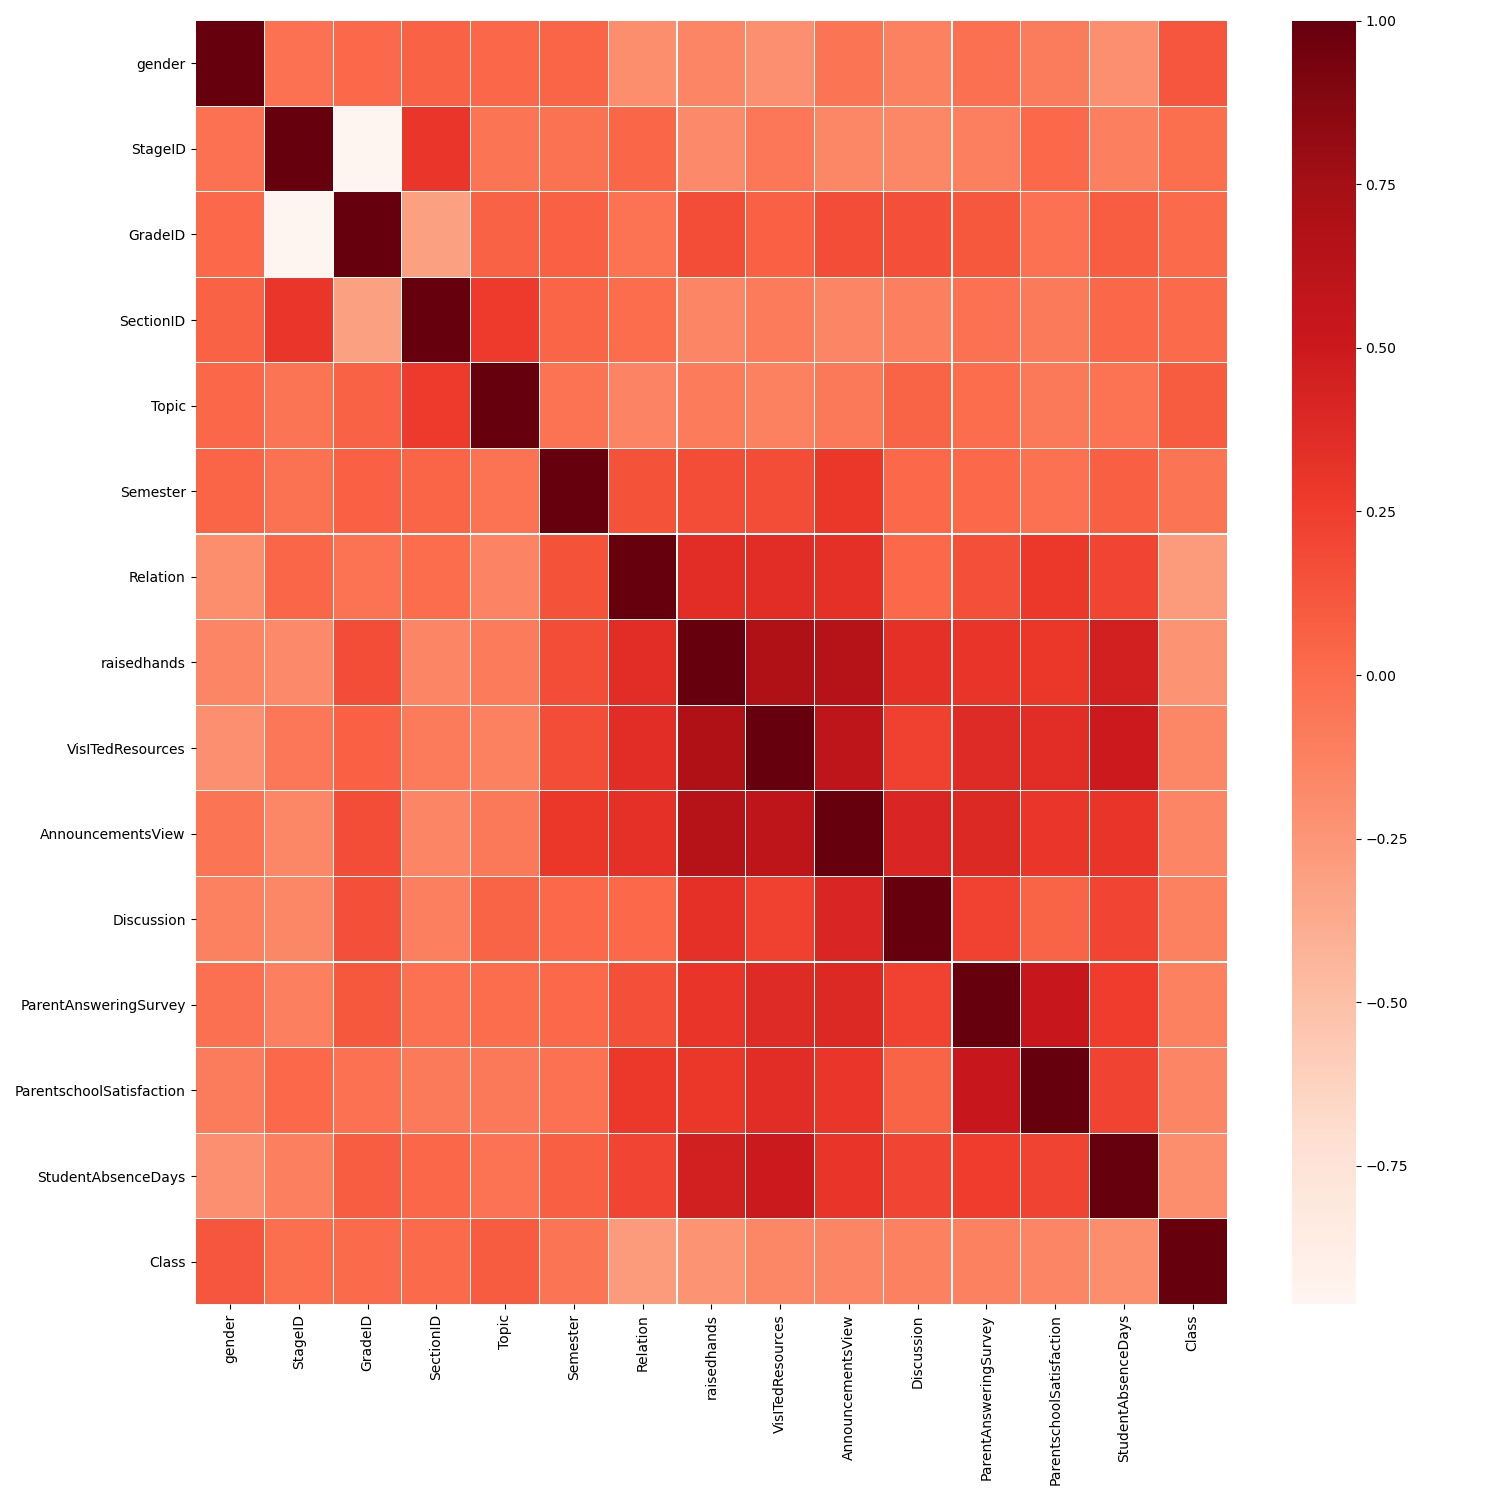
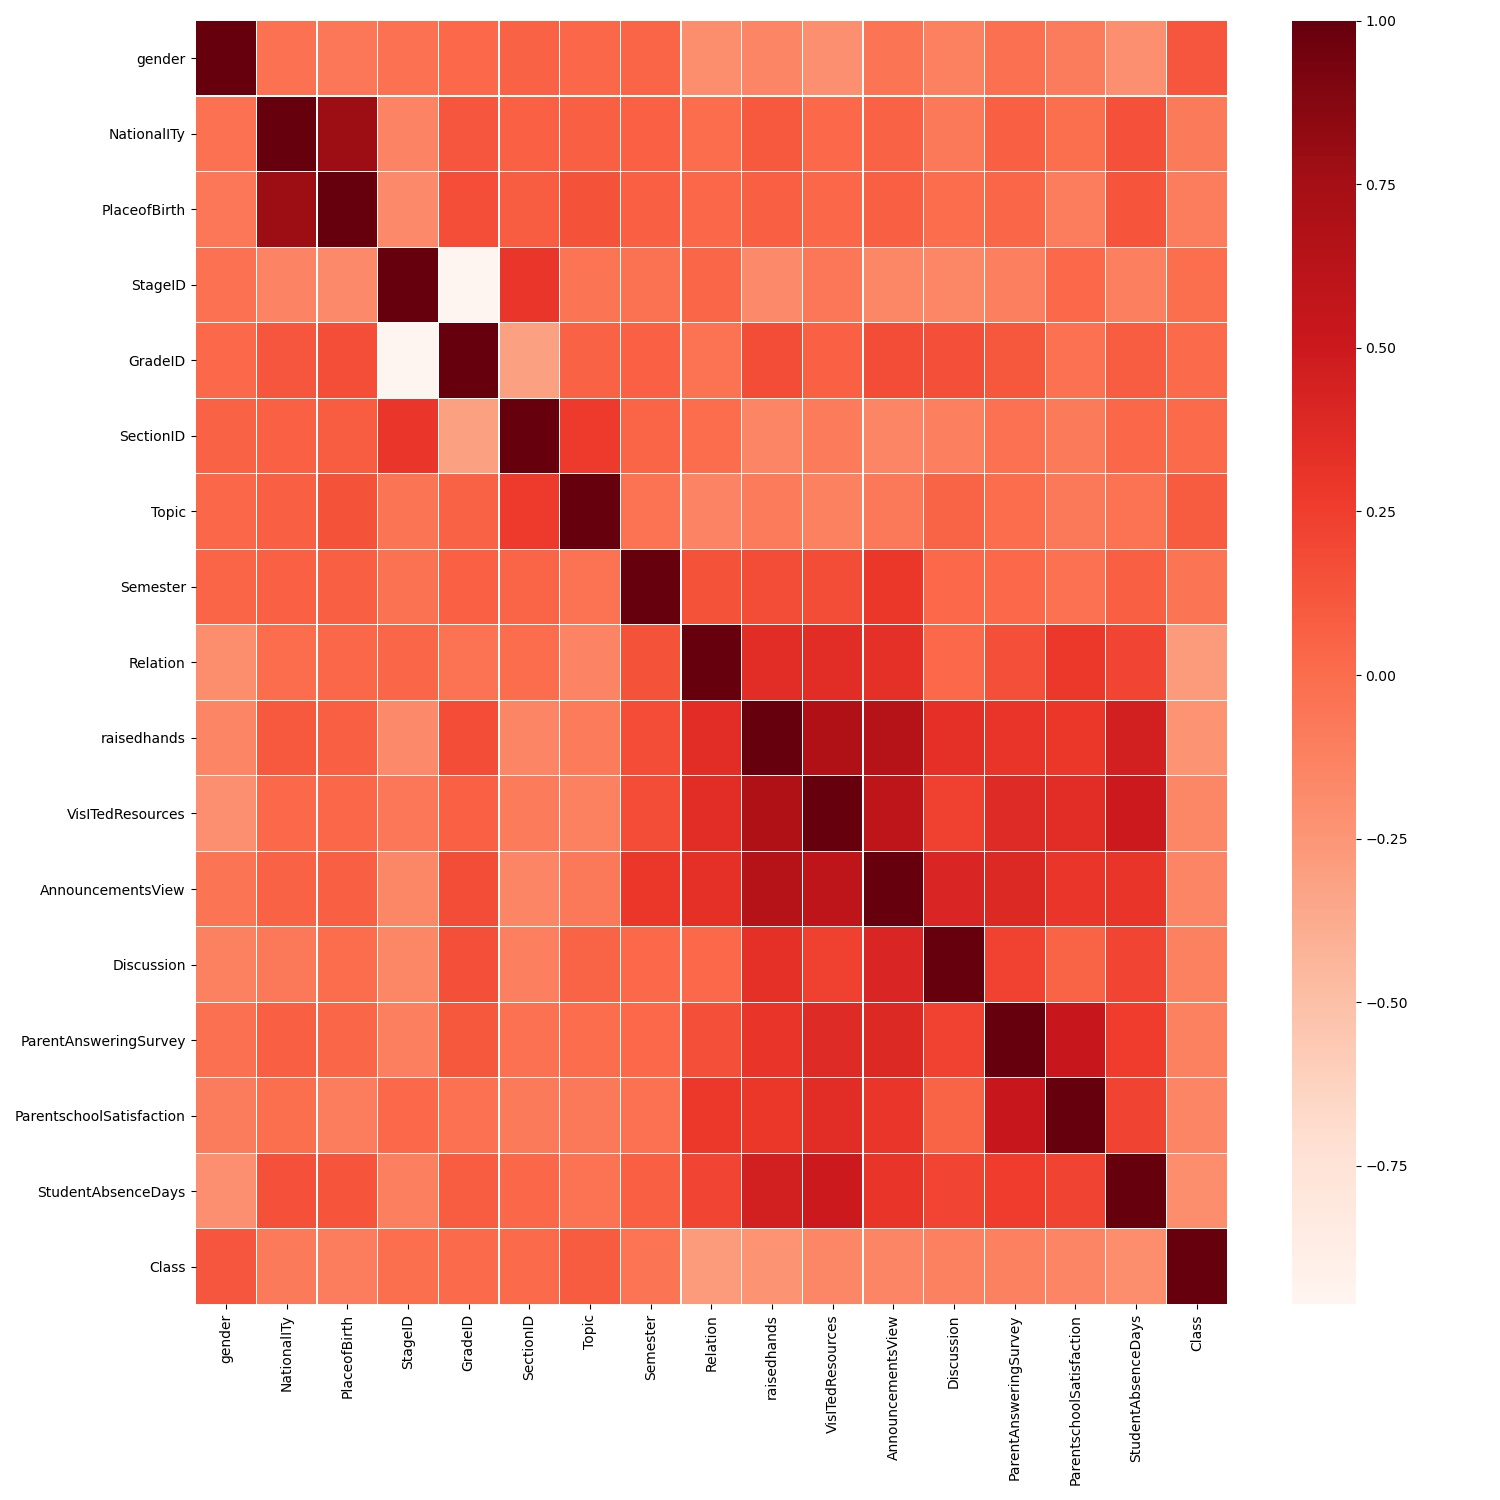
Update lab4

diff --git a/Lab4/Ex4_Performance_Classification/Ex4_Performance_Classification.py b/Lab4/Ex4_Performance_Classification/Ex4_Performance_Classification.py
@@ -15,8 +15,9 @@ import seaborn as sns
 from sklearn.preprocessing import LabelEncoder
 #Import Scikit - Learn for model selection
 from sklearn.model_selection import train_test_split
-##Import Scikit - Learn Models
+#Import Scikit - Learn Models
 from sklearn.cluster import KMeans, AgglomerativeClustering, Birch
+from sklearn import metrics
 
 #Label Encoder
 def label_encoder(data):
@@ -30,6 +31,21 @@ def label_encoder(data):
     for col in data_colums:
         data[col] = label.fit_transform(data[col])
     return data
+
+#Remove outlier
+def remove_outlier(data):
+    '''
+        Purpose: helping remove outliers of the dataset.
+        Param: data - DataFrame
+        Output: DataFrame that is outlier-removed
+    '''
+    Q1 = data.quantile(0.25)
+    Q3 = data.quantile(0.75)
+    IQR = Q3 - Q1
+    data_out = data[~((data < (Q1 - 1.5 * IQR)) | (data > (Q3 + 1.5 * IQR))).any(axis=1)]
+    print('> Shape of data before handling outlier values: ', data.shape)
+    print('> Shape of data after handling outlier values: ', data_out.shape)
+    return data_out
 
 #Data Cleaning
 def cleaning_data(data):
@@ -73,10 +89,10 @@ def kmeans_algorithm(X_train, X_test, y_train, y_test):
         Param: X_train, X_test, y_train, y_test - ndarray 
         Output: The Accuracy of the K-means Clustering - float64
     '''
-    kmeans=KMeans(n_clusters=3,max_iter=2000,random_state=1)
-    kmeans.fit(X_train,y_train)
-    y_pred=kmeans.fit_predict(X_test)
-    return sum(y_pred==y_test)/len(y_pred)
+    kmeans=KMeans(n_clusters=3,max_iter=2000,random_state=17)
+    kmeans.fit(X_train)
+    y_pred=kmeans.predict(X_test)
+    return metrics.accuracy_score(y_test, y_pred)
 
 #Birch Algorithm
 def birch_algorithm(X_train, X_test, y_train, y_test):
@@ -86,9 +102,9 @@ def birch_algorithm(X_train, X_test, y_train, y_test):
         Output: The Accuracy of the Birch - float64
     '''
     birch=Birch(n_clusters=3)
-    birch.fit(X_train,y_train)
+    birch.fit(X_train)
     birch_pred=birch.predict(X_test)
-    return sum(birch_pred==y_test)/len(birch_pred)
+    return metrics.accuracy_score(y_test, birch_pred)
 
 #Agglomerative Algorithm
 def agglomerative_algorithm(X_train, X_test, y_train, y_test):
@@ -98,9 +114,9 @@ def agglomerative_algorithm(X_train, X_test, y_train, y_test):
         Output: The Accuracy of the Agglomerative - float64
     '''
     agglo=AgglomerativeClustering(n_clusters=3)
-    agglo.fit(X_train,y_train)
+    agglo.fit(X_train)
     agglo_pred=agglo.fit_predict(X_test)
-    return sum(agglo_pred==y_test)/len(agglo_pred)
+    return metrics.accuracy_score(y_test, agglo_pred)
 
 def main():
     '''
@@ -121,20 +137,21 @@ Py4DS_Lab4_Dataset/xAPI-Edu-Data.csv'
     ##2. Cleaning Data
     data_cleaned=cleaning_data(df)
 
+    ##Handle Outlier
+    data_cleaned=remove_outlier(data_cleaned)
+
     ##3. Label Encoding Data
-    data_encoded=label_encoder(data_cleaned)
+    data=label_encoder(data_cleaned)
 
     #Plot the boxplot to detect outliers
     plt.figure(figsize=(15,15))
-    sns.boxplot(data=data_encoded)
+    sns.boxplot(data=data)
     plt.xticks(rotation=90)
-    plt.show()
+    plt.savefig("Boxplot-Performance.jpg")
     '''
         As we can see from the boxplot, the NationalITy and PlaceofBirth has
-        a lot of outliers. So we drop these features
+        a lot of outliers.
     '''
-    #Remove NationalITy and PlaceofBirth features
-    data=data_encoded.drop(['NationalITy','PlaceofBirth'],axis=1)
 
     ##4. Exploratory Data Analysis
     eda_plot(data)
@@ -150,8 +167,8 @@ Py4DS_Lab4_Dataset/xAPI-Edu-Data.csv'
     #Splitting Data
     X = data.drop(['Class'], axis=1)
     y = data['Class']
-    #Set the size of the test set is 30% of the data
-    X_train, X_test, y_train, y_test = train_test_split(X, y, test_size=0.3, random_state=1)
+    #Set the size of the test set is 20% of the data
+    X_train, X_test, y_train, y_test = train_test_split(X, y, test_size=0.2, random_state=1)
 
     ##6. Build KMeans Clustering Algorithm
     accuracy_kmeans=kmeans_algorithm(X_train,X_test,y_train,y_test)
